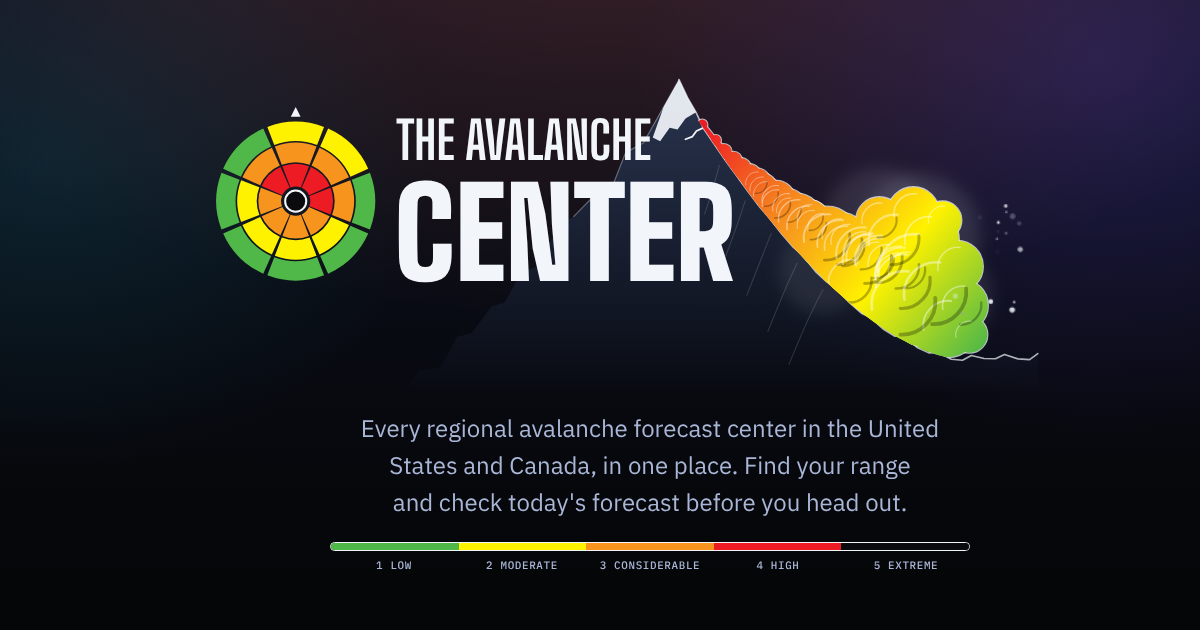
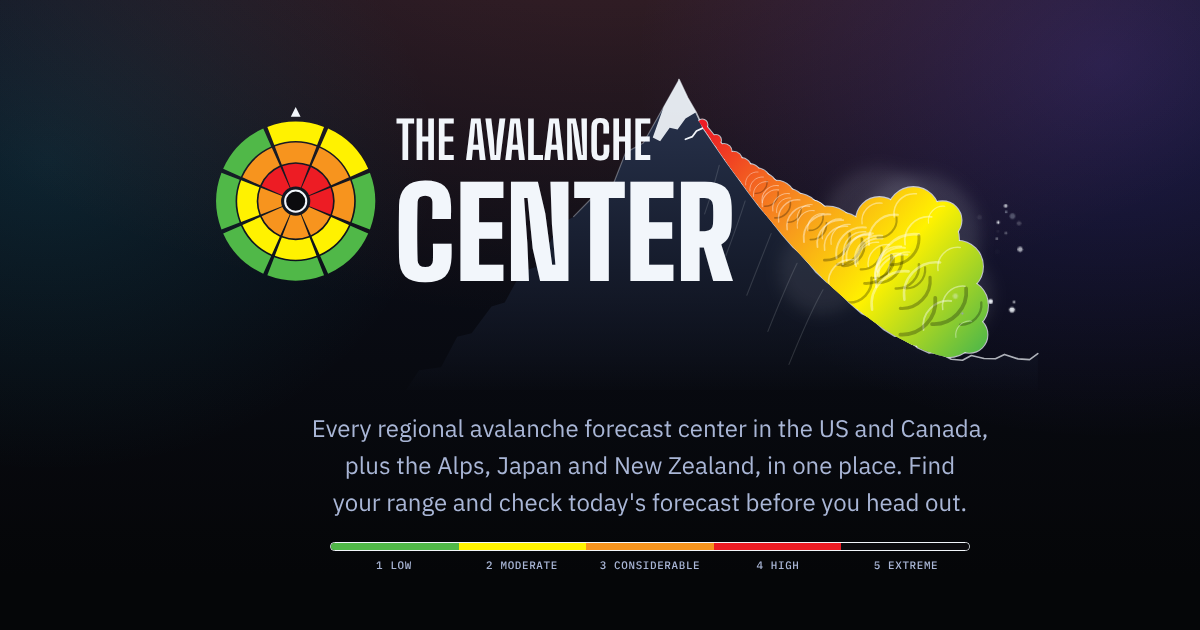
Update link preview image to mention the Alps, Japan and New Zealand
Claude-Session: https://claude.ai/code/session_011ENfJmkGDiF3nwSzybHGjQ

Changed region(s): [[0.2467, 0.6635, 0.8325, 0.6937], [0.2775, 0.7841, 0.8017, 0.8143], [0.2775, 0.7238, 0.8017, 0.754]]

diff --git a/index.html b/index.html
@@ -17,7 +17,7 @@
 <meta property="og:title" content="The Avalanche Center: Avalanche forecast centers in the US, Canada, the Alps, Japan and New Zealand">
 <meta property="og:description" content="Find your range and check today's avalanche forecast before you head out. Forecast centers in the US, Canada, the Alps, Japan and New Zealand, in one place.">
 <meta property="og:url" content="https://theavalanchecenter.com/">
-<meta property="og:image" content="https://theavalanchecenter.com/og-image.png">
+<meta property="og:image" content="https://theavalanchecenter.com/og-image.png?v=2">
 <meta property="og:image:width" content="1200">
 <meta property="og:image:height" content="630">
 <meta property="og:image:alt" content="The Avalanche Center logo over a night sky">
